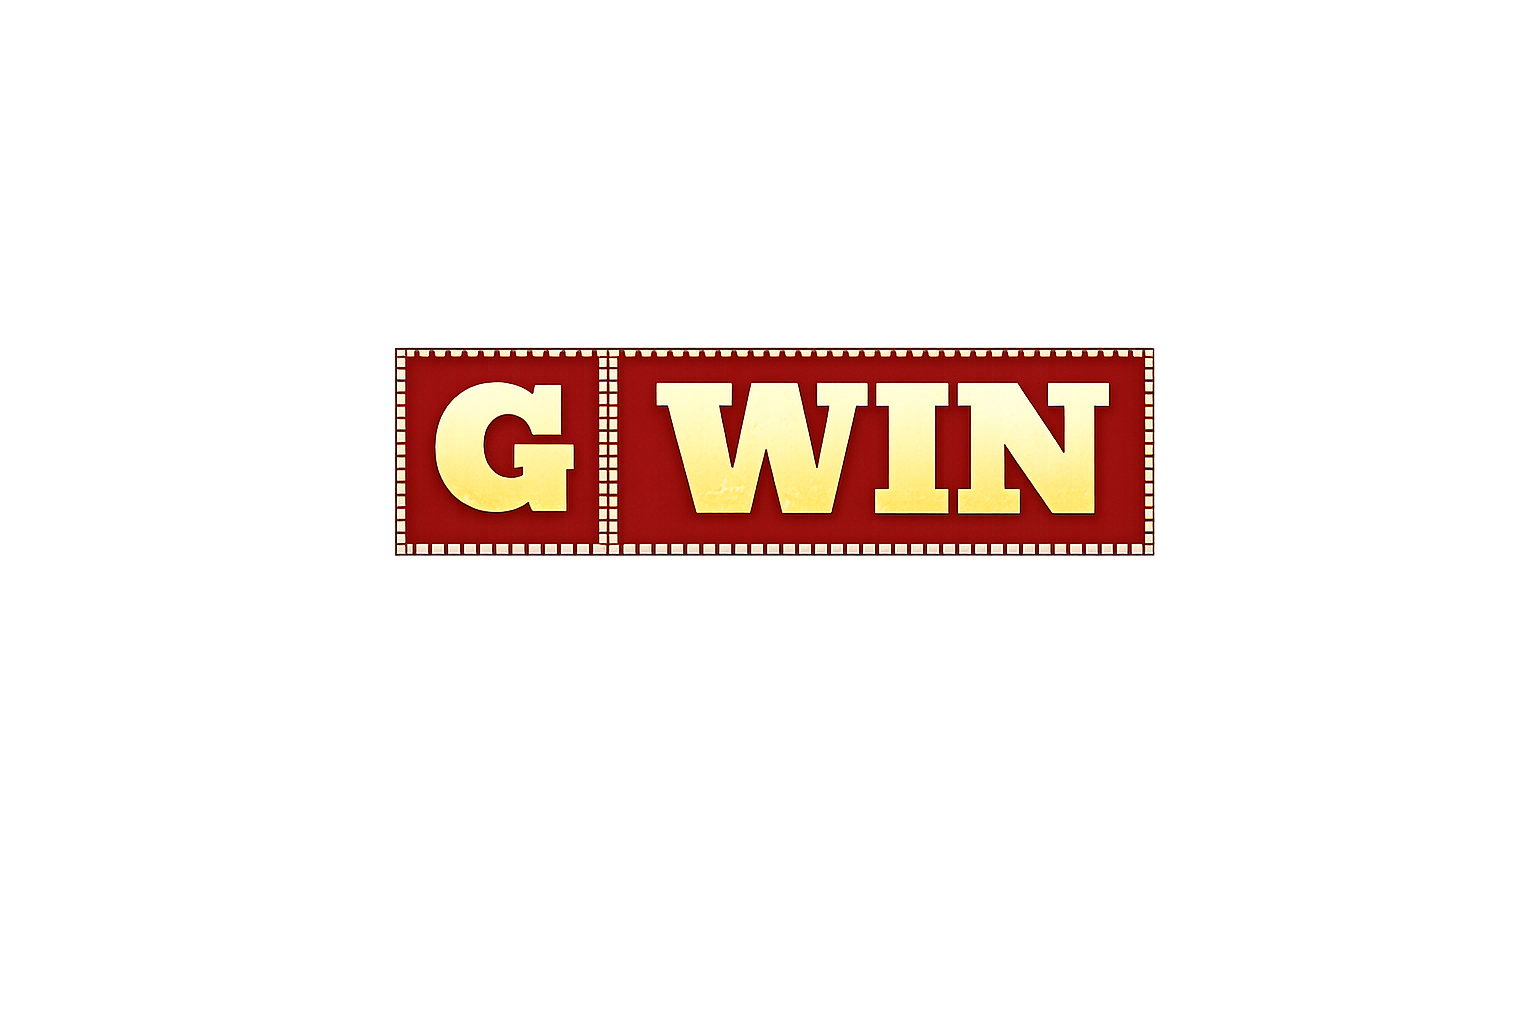
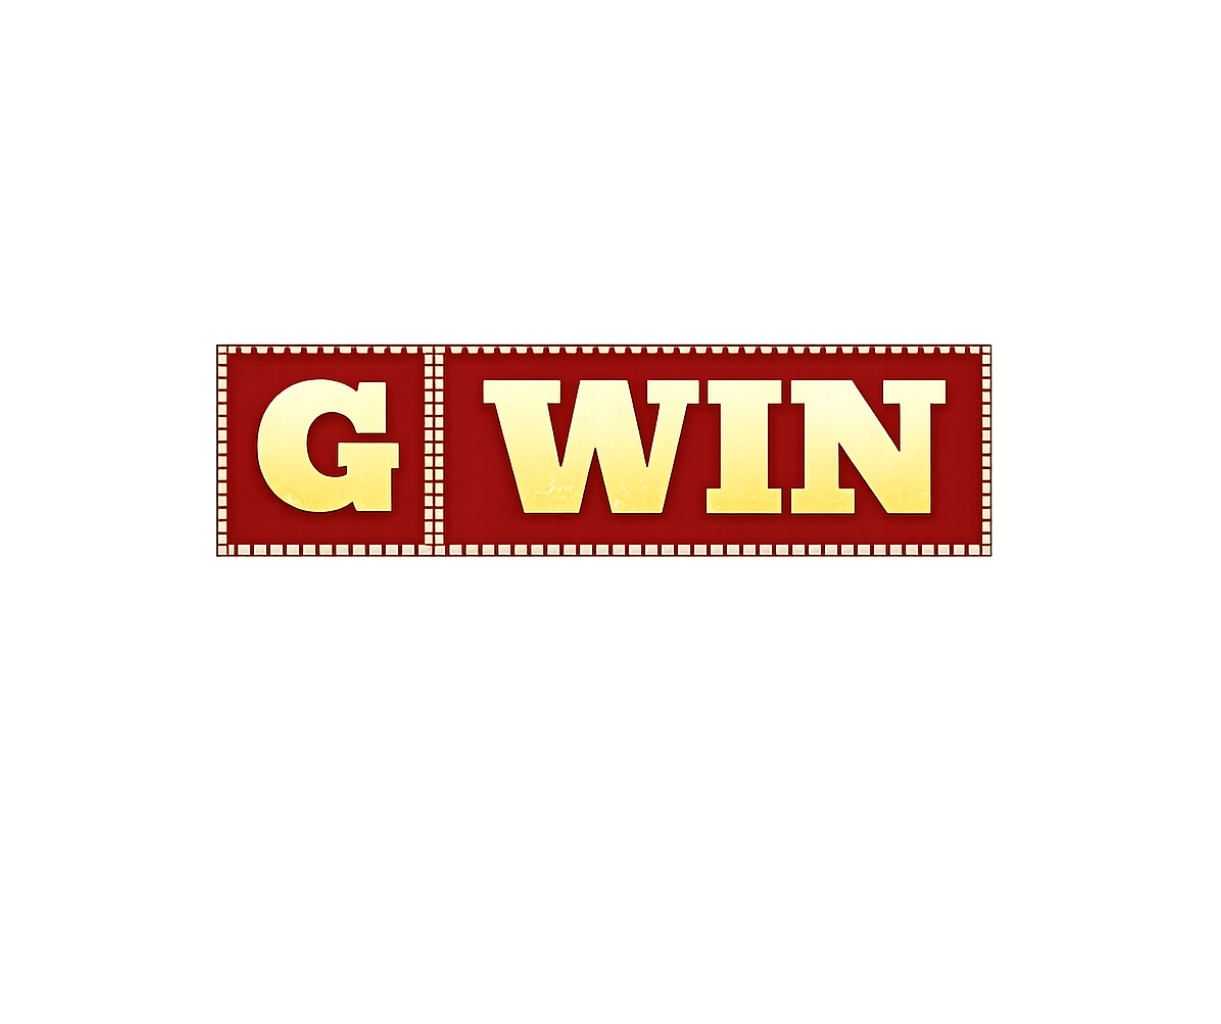
Update lottery game UI styling, sidebar alignment, and dynamic history layout

Changed region(s): [[0.1556, 0.3125, 0.8403, 0.5625]]

diff --git a/G-Win-LOttery/game/style.css b/G-Win-LOttery/game/style.css
@@ -36,7 +36,8 @@
 html,
 body {
   width: 100%;
-  height: 100%;
+  height: 100vh;
+  height: 100dvh;
   font-family: 'Arial', 'Outfit', sans-serif;
   /* Set Arial as primary for parity */
   color: #fff;
@@ -63,6 +64,7 @@ body {
   background-position: center;
   background-repeat: no-repeat;
   min-height: 100vh;
+  min-height: 100dvh;
 }
 
 body::before {
@@ -80,6 +82,7 @@ body::before {
   z-index: 1;
   width: 100%;
   height: 100vh;
+  height: 100dvh;
   /* Fixed height ensures footer stays on screen */
   margin: 0;
   display: flex;
@@ -141,7 +144,7 @@ body::before {
 }
 
 .header-logo img {
-  height: 200px;
+  height: 242px;
   object-fit: contain;
   margin-top: -40px;
   filter: drop-shadow(0 4px 15px rgba(0, 0, 0, 0.6));
@@ -741,7 +744,7 @@ body::before {
   line-height: 1;
   box-sizing: border-box;
   text-align: center;
-  transform: scaleY(1.6);
+  transform: scaleY(1.6) translateY(-3%);
   transform-origin: center;
 }
 
@@ -818,7 +821,7 @@ body::before {
   color: #ff0f0f;
   font-weight: 900;
   font-family: 'Arial Narrow', sans-serif;
-  font-size: 14px;
+  font-size: 18px;
   /* Balanced for 6 items visibility */
   text-align: center;
   flex-shrink: 0;
@@ -830,9 +833,40 @@ body::before {
 
 .history-item {
   background: #ffe605;
-  padding: 12px 2px;
-  line-height: 1.1;
-  /* min-width removed to ensure all 6 fit in parent width */
+  padding: 4px 2px;
+  line-height: 1;
+  display: flex;
+  flex-direction: column;
+  align-items: center;
+  justify-content: center;
+  row-gap: 10px;
+}
+
+.h-time {
+  display: block;
+  font-size: 13px;
+  font-weight: 900;
+  color: #ff0f0f;
+  line-height: 1;
+  margin: 0;
+}
+
+.h-num {
+  display: block;
+  font-size: 18px;
+  font-weight: 900;
+  color: #ff0f0f;
+  line-height: 1;
+  margin: 0;
+}
+
+.h-small {
+  display: block;
+  font-size: 14px;
+  font-weight: 900;
+  color: #ff0f0f;
+  line-height: 1;
+  margin: 0;
 }
 
 .history-item:last-child {
@@ -854,13 +888,13 @@ body::before {
   border: 1px solid rgba(255, 255, 255, 0.2);
   flex-shrink: 0;
   flex-wrap: nowrap;
-  justify-content: center;
+  justify-content: space-evenly;
   border-radius: 0;
   width: calc(100% + 16px);
   margin-left: -8px;
   margin-right: -8px;
   max-width: none;
-  overflow-x: auto;
+  overflow-x: hidden;
   -webkit-overflow-scrolling: touch;
 }
 
@@ -869,16 +903,16 @@ body::before {
 }
 
 .chip {
-  width: clamp(26px, 3.5vw, 36px);
-  height: clamp(26px, 3.5vw, 36px);
+  width: clamp(36px, 4.2vw, 44px);
+  height: clamp(36px, 4.2vw, 44px);
   aspect-ratio: 1;
-  min-width: 24px;
+  min-width: 34px;
   flex-shrink: 0;
   border-radius: 50%;
   display: flex;
   align-items: center;
   justify-content: center;
-  font-size: clamp(9px, 1.1vw, 13px);
+  font-size: clamp(11px, 1.3vw, 15px);
   font-weight: 900;
   color: #333;
   cursor: pointer;
@@ -942,7 +976,9 @@ body::before {
 }
 
 .barcode-input {
-  width: 100%;
+  width: calc(100% + 16px);
+  margin-left: -8px;
+  margin-right: -8px;
   padding: 14px 8px;
   /* Increased height/padding for better presence */
   font-size: 18px;
@@ -950,7 +986,7 @@ body::before {
   text-align: center;
   background: rgba(255, 255, 255, 0.93);
   border: none;
-  border-radius: 4px;
+  border-radius: 0;
   color: #333;
   font-weight: 500;
   /* Slightly bolder for clarity */
@@ -1394,6 +1430,14 @@ body::before {
     margin-top: -20px;
   }
 
+/* ── Exactly 1024x768 Resolution ─────────────────────────────── */
+@media (max-width: 1024px) {
+  .header-logo img {
+    height: 160px;
+    margin-top: -30px;
+  }
+}
+
   .main-layout {
     grid-template-columns: repeat(3, 1fr) 28px 64px;
     margin-top: -35px;
@@ -1564,6 +1608,66 @@ body::before {
   }
 }
 
+/* ── Short Viewport Fix (non-fullscreen browser) ─────────────── */
+/* Scales center panel content when browser chrome (tabs/address bar) reduces height */
+@media (max-height: 750px) {
+  .center-panel {
+    gap: clamp(2px, 0.8vh, 10px);
+  }
+
+  .tran-boxes {
+    margin-top: 8px;
+  }
+
+  .digit-box {
+    height: 115px;
+    border-width: 10px;
+  }
+
+  .metro-title-row {
+    margin-bottom: -12px;
+  }
+
+  .ornament img {
+    height: clamp(40px, 9vh, 70px);
+  }
+
+  .metro-title img {
+    height: clamp(35px, 8vh, 60px);
+  }
+
+  .info-value {
+    font-size: 22px;
+    padding: 1px 4px;
+  }
+
+  .info-label {
+    font-size: 14px;
+  }
+
+  .display-wrapper {
+    gap: 2px;
+    margin-bottom: 0;
+  }
+
+  .history-item {
+    padding: 5px 2px;
+  }
+
+  .history-grid {
+    margin-bottom: -6px;
+  }
+
+  .timer-box {
+    height: 32px;
+    font-size: 15px;
+  }
+
+  .result-small {
+    font-size: 24px;
+  }
+}
+
 /* ── Laptop / Tablet Landscape (max 1100px) ─────────────────── */
 /* Media queries for 1100px removed to ensure full desktop UI on 1024px screens */
 
@@ -1583,6 +1687,7 @@ body::before {
 
   .app-wrapper {
     min-height: 100vh;
+    min-height: 100dvh;
     overflow-y: auto;
     overflow-x: hidden;
   }

diff --git a/G-Win-LOttery/game/index.html b/G-Win-LOttery/game/index.html
@@ -15,7 +15,7 @@
 </head>
 
 <body>
-
+  
   <div class="app-wrapper">
 
     <!-- ══ HEADER ══════════════════════════════════════════════ -->
@@ -99,12 +99,12 @@
         </div>
 
         <div class="history-grid">
-          <div class="history-item">05:35<br />557<br />7</div>
-          <div class="history-item">05:30<br />399<br />1</div>
-          <div class="history-item">05:25<br />680<br />4</div>
-          <div class="history-item">05:20<br />690<br />5</div>
-          <div class="history-item">05:15<br />237<br />2</div>
-          <div class="history-item">05:10<br />888<br />4</div>
+          <div class="history-item"><span class="h-time">05:35</span><span class="h-num">557</span><span class="h-small">7</span></div>
+          <div class="history-item"><span class="h-time">05:30</span><span class="h-num">399</span><span class="h-small">1</span></div>
+          <div class="history-item"><span class="h-time">05:25</span><span class="h-num">680</span><span class="h-small">4</span></div>
+          <div class="history-item"><span class="h-time">05:20</span><span class="h-num">690</span><span class="h-small">5</span></div>
+          <div class="history-item"><span class="h-time">05:15</span><span class="h-num">237</span><span class="h-small">2</span></div>
+          <div class="history-item"><span class="h-time">05:10</span><span class="h-num">888</span><span class="h-small">4</span></div>
         </div>
 
         <div class="chips-row">
@@ -148,8 +148,10 @@
           <div class="sidebar-btn title1">SP</div>
           <div class="sidebar-ornament"><img src="assets/ornament.png" alt="" /></div>
           <div class="sidebar-btn">SPX150</div>
-          <div class="sidebar-label">Min : 5</div>
-          <div class="sidebar-label">Max : 5000</div>
+          <div class="sidebar-label" style="text-align: left; padding-left: 8px; width: 100%; box-sizing: border-box;">Min :</div>
+          <div class="sidebar-label" style="text-align: left; padding-left: 8px; font-size: 14px; font-weight: 700; width: 100%; box-sizing: border-box;">5</div>
+          <div class="sidebar-label" style="text-align: left; padding-left: 8px; margin-top: 5px; width: 100%; box-sizing: border-box;">Max :</div>
+          <div class="sidebar-label" style="text-align: left; padding-left: 8px; font-size: 14px; font-weight: 700; width: 100%; box-sizing: border-box;">5000</div>
         </div>
 
         <div class="sidebar-divider divider-dp"></div>
@@ -158,8 +160,10 @@
           <div class="sidebar-btn title">DP</div>
           <div class="sidebar-ornament"><img src="assets/ornament.png" alt="" /></div>
           <div class="sidebar-btn">DPX300</div>
-          <div class="sidebar-label">Min : 5</div>
-          <div class="sidebar-label">Max : 2500</div>
+          <div class="sidebar-label" style="text-align: left; padding-left: 8px; width: 100%; box-sizing: border-box;">Min :</div>
+          <div class="sidebar-label" style="text-align: left; padding-left: 8px; font-size: 14px; font-weight: 700; width: 100%; box-sizing: border-box;">5</div>
+          <div class="sidebar-label" style="text-align: left; padding-left: 8px; margin-top: 5px; width: 100%; box-sizing: border-box;">Max :</div>
+          <div class="sidebar-label" style="text-align: left; padding-left: 8px; font-size: 14px; font-weight: 700; width: 100%; box-sizing: border-box;">2500</div>
         </div>
 
         <div class="sidebar-divider divider-triple"></div>

diff --git a/G-Win-LOttery/game/script.js b/G-Win-LOttery/game/script.js
@@ -40,17 +40,25 @@ async function syncWithServerTimer() {
 
 async function updateDashboardHistory() {
   if (!window.GWinAPI || !window.GWinAPI.result6Wise) return;
+  const staticHTML = `
+          <div class="history-item"><span class="h-time">05:35</span><span class="h-num">557</span><span class="h-small">7</span></div>
+          <div class="history-item"><span class="h-time">05:30</span><span class="h-num">399</span><span class="h-small">1</span></div>
+          <div class="history-item"><span class="h-time">05:25</span><span class="h-num">680</span><span class="h-small">4</span></div>
+          <div class="history-item"><span class="h-time">05:20</span><span class="h-num">690</span><span class="h-small">5</span></div>
+          <div class="history-item"><span class="h-time">05:15</span><span class="h-num">237</span><span class="h-small">2</span></div>
+          <div class="history-item"><span class="h-time">05:10</span><span class="h-num">888</span><span class="h-small">4</span></div>
+  `;
   try {
     const res = await window.GWinAPI.result6Wise();
     // Handle both 'results' and 'data' fields just in case
     const historyData = res.results || res.data || [];
 
-    if (res && res.status && historyData) {
-      const grid = document.querySelector('.history-grid');
-      if (grid) {
+    const grid = document.querySelector('.history-grid');
+    if (grid) {
+      if (res && res.status && historyData && historyData.length > 0) {
         grid.innerHTML = '';
         // Display the last 6 results provided by the API
-        historyData.forEach(item => {
+        historyData.slice(0, 6).forEach(item => {
           const div = document.createElement('div');
           div.className = 'history-item';
 
@@ -66,13 +74,19 @@ async function updateDashboardHistory() {
           }
 
           const displayTime = item.time ? item.time.replace(/AM|PM/gi, '').trim() : '--';
-          div.innerHTML = `${displayTime}<br />${big}<br />${small}`;
+          div.innerHTML = `<span class="h-time">${displayTime}</span><span class="h-num">${big}</span><span class="h-small">${small}</span>`;
           grid.appendChild(div);
         });
+      } else {
+        grid.innerHTML = staticHTML;
       }
     }
   } catch (e) {
     console.warn('Failed to update dashboard history:', e);
+    const grid = document.querySelector('.history-grid');
+    if (grid) {
+      grid.innerHTML = staticHTML;
+    }
   }
 }
 
